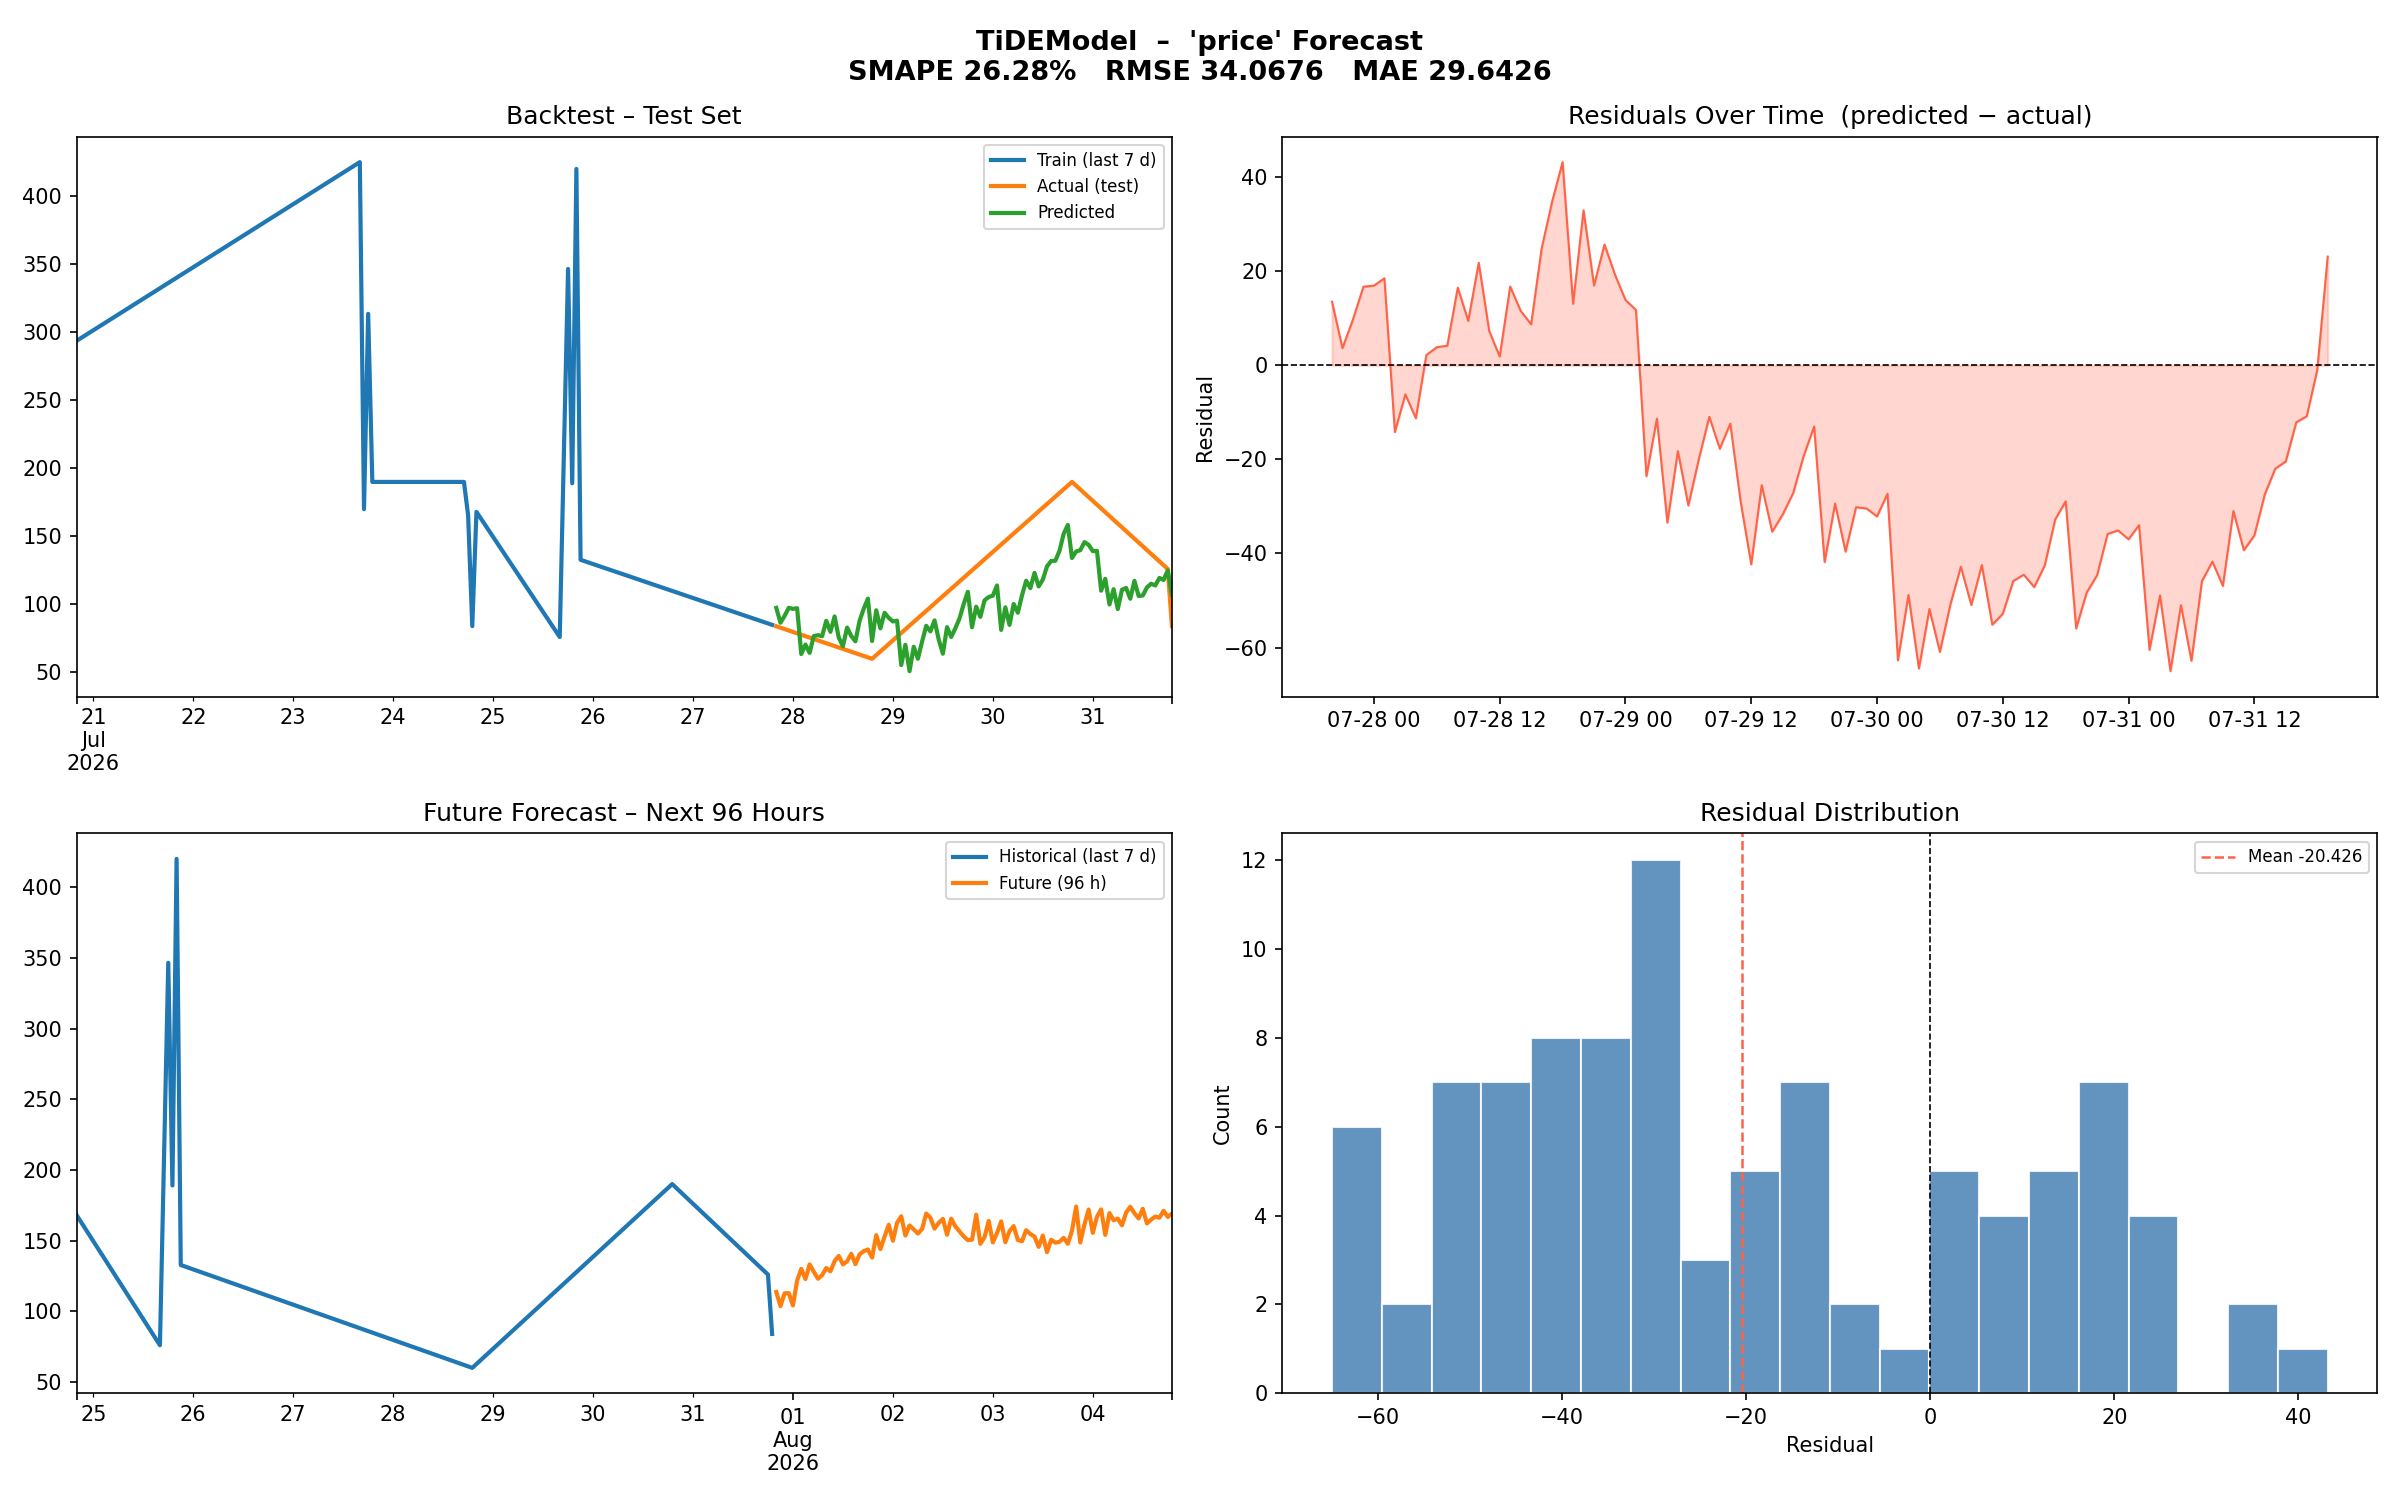
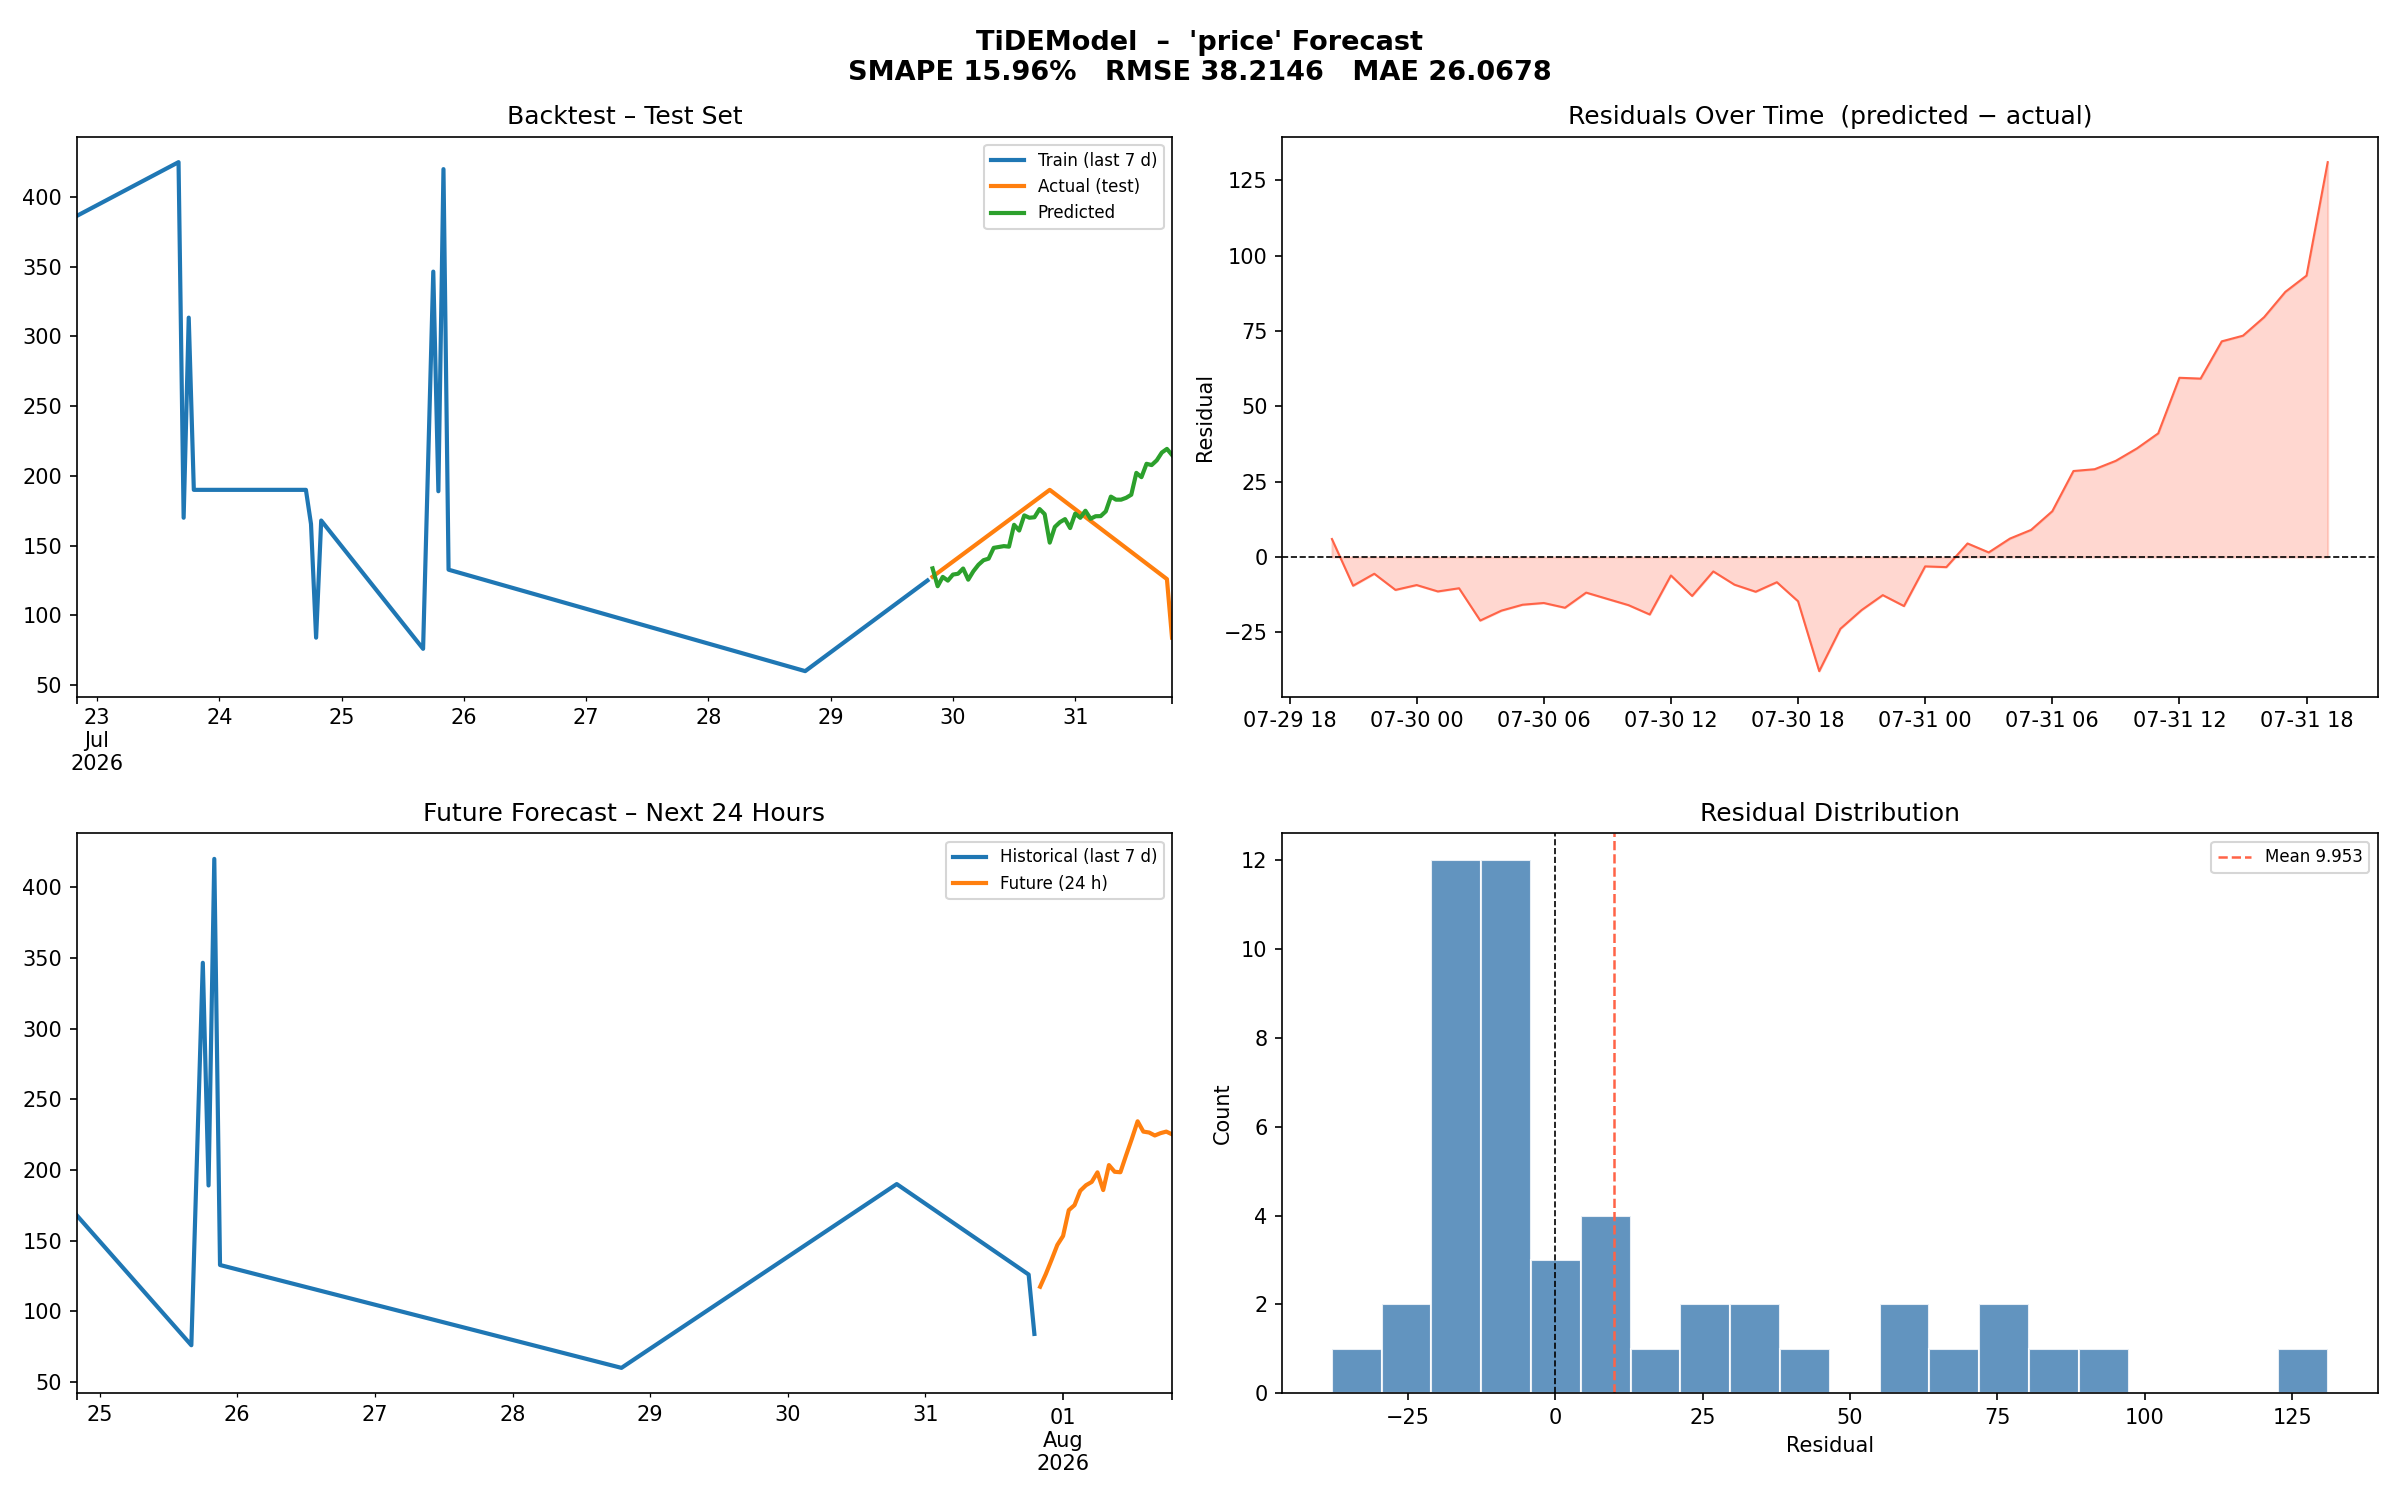
current working version, added some instructions in readme and comment

diff --git a/src/darts_prophet/single_model_test.py b/src/darts_prophet/single_model_test.py
@@ -573,7 +573,13 @@ def _plot_results(
 if __name__ == "__main__":
     # ── Choose your model ──────────────────────────────────────────────────
     # Swap this import + class for any other Darts model, e.g.:
-    #   from darts.models import LightGBMModel, NBEATSModel, TFTModel, NHiTSModel, ...
+    #   from darts.models import LightGBMModel, NBEATSModel, TFTModel, NHiTSModel, 
+    # All accepted models are as follows:
+    # NaiveSeasonal,NaiveDrift,NaiveMovingAverage,NaiveEnsembleModel,ExponentialSmoothing,
+    # StatsForecastModel,TBATS,Theta,FourTheta,FFT, AutoARIMA,Prophet,KalmanForecaster,RegressionModel,
+    # RandomForest,LightGBMModel,XGBModel,CatBoostModel,Croston,LinearRegressionModel,
+    # And NN Models:
+    # RNNModel, BlockRNNModel, NBEATSModel, NHiTSModel, TCNModel, TransformerModel,TFTModel,TiDEModel,
     from darts.models import TiDEModel
  
     MODEL_CLS = TiDEModel

diff --git a/README.md b/README.md
@@ -10,3 +10,16 @@ Data:
 1. Create a folder 'data/'
 2. Place the relevant csv files in this folder
 3. Edit the config you will use to refer to the correct file (data, data_path)
+
+## Testing a single model
+1. Open src/darts_prophet/single_model_test.py
+2. Stel 'CONFIG_PATH' in op de gewenste config.yaml
+3. Vervang in 
+
+```
+from darts.models import TiDEModel
+ 
+    MODEL_CLS = TiDEModel
+```
+'TiDEModel' door het gewenste dart model
+4. Run met de venv het bestand.
